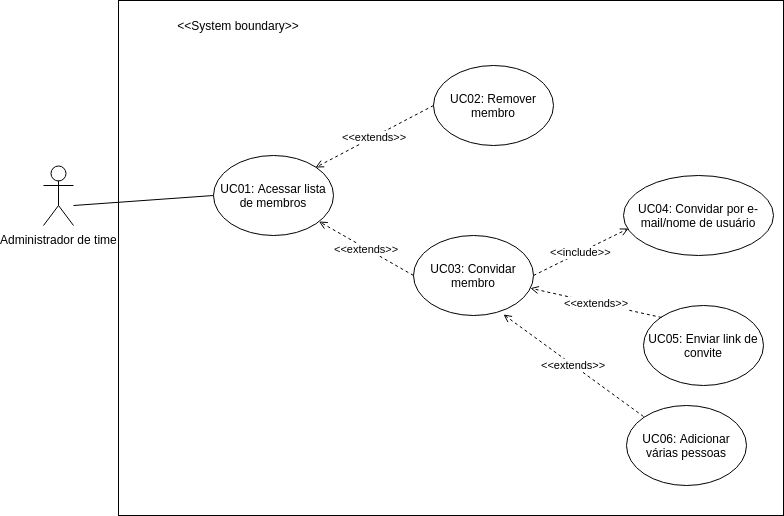
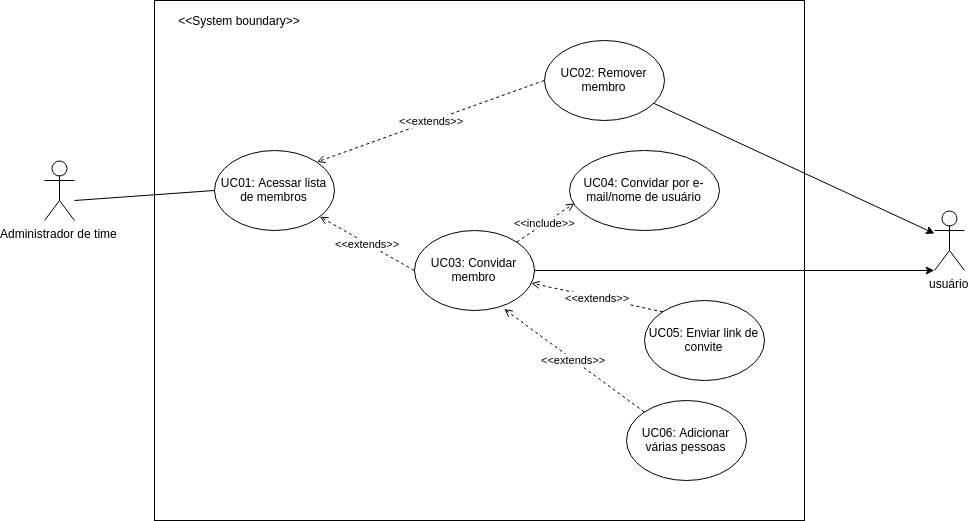
Updated user cases

diff --git a/casos de uso.md b/casos de uso.md
@@ -82,53 +82,53 @@ Para tal, o diagrama dispõe de atores que representam usuários ou sistemas que
 
 ![Caso 5](imagens/casos de uso/caso5.png)
 
-### UC01 - Criar time
+#### UC01 - Criar time
 
 |  |  |
 |  ------: | :------ |
 |  **Descrição** | Tem como objetivo a criação de um time para melhorar a organização de quadros e arquivos que devem pertencer a um grupo específico de usuários. |
 | **Atores** | Usuário |
-| **Pré Condições** | O usuário deve estar logado  no sistema. |
-| **Fluxo Principal** | **FP01 - Criar time**<br>1. Usuário acessa a opção de criar time.<br>2. Usuário digita o nome do time. [UC02][FA01][FA02]<br>3. Time criado com sucesso. Usuário é redirecionado para página do time. |
-| **Fluxos Alternativos** | **FA01 - Adicionar descrição**<br>1. Usuário adiciona descrição do time [UC03].<br>**FA02 - Acessar informações de business class**<br>1. Usuário acessa informações do business class [UC04] |
+| **Pré Condições** | O usuário deve estar logado no sistema. |
+| **Fluxo Principal** | **FP01 - Criar time**<br>1. Usuário acessa a opção de criar time.<br>2. Aciona UC02 - Adicionar nome. [FA01][FA02]<br>3. Time criado com sucesso. Usuário é redirecionado para página do time. |
+| **Fluxos Alternativos** | **FA01 - Adicionar descrição** [UC03].<br>**FA02 - Acessar informações de business class** [UC04] |
 | **Fluxos de Exceção** | Não se aplica. |
 | **Pós Condições** | Time é criado com informações dadas pelo usuário. |
 
 
-### UC02 - Adicionar nome
+#### UC02 - Adicionar nome
 
 |  |  |
 |  ------: | :------ |
 |  **Descrição** | Permite nomear times criados pelo usuário. |
 | **Atores** | Usuário |
-| **Pré Condições** | O usuário deve estar logado  no sistema.<br> Formulário de criação de time deve estar selecionado.|
-| **Fluxo Principal** | **FP01 - Adicionar nome**<br>1. Usuário digita o nome do time.<br>2. Usuário clica em no botão "criar".<br> 3. Time criado com sucesso. Usuário é redirecionado para página do time. |
+| **Pré Condições** | O usuário deve estar logado no sistema.<br> Formulário de criação de time deve estar selecionado.|
+| **Fluxo Principal** | **FP01 - Adicionar nome**<br>1. Usuário digita o nome do time.<br>2. Usuário clica em no botão "criar".<br> 3. Retorna para UC01 - criar time, passo 3. |
 | **Fluxos Alternativos** | Não se aplica. |
 | **Fluxos de Exceção** | Não se aplica. |
 | **Pós Condições** | Time é criado com informações dadas pelo usuário. |
 
 
-### UC03 - Adicionar descrição
+#### UC03 - Adicionar descrição
 
 |  |  |
 |  ------: | :------ |
 |  **Descrição** | Permite adicionar descrição a times criados pelo usuário. |
 | **Atores** | Usuário |
-| **Pré Condições** | O usuário deve estar logado  no sistema.<br> Formulário de criação de time deve estar selecionado.|
-| **Fluxo Principal** | **FP01 - Adicionar descrição**<br>1. Usuário digita o nome do time.<br>2. Usuário digita descrição do time.<br>3. Usuário clica em no botão "criar".<br> 4. Time criado com sucesso. Usuário é redirecionado para página do time. |
+| **Pré Condições** | O usuário deve estar logado no sistema.<br> Formulário de criação de time deve estar selecionado.|
+| **Fluxo Principal** | **FP01 - Adicionar descrição**<br>1. Usuário digita o nome do time.<br>2. Usuário digita descrição do time.<br>3. Usuário clica em no botão "criar".<br> 4. Retorna para UC01 - criar time, passo 3. |
 | **Fluxos Alternativos** | Não se aplica. |
 | **Fluxos de Exceção** | Não se aplica. |
 | **Pós Condições** | Time é criado com informações dadas pelo usuário. |
 
 
-### UC04 - Acessar informações de business class
+#### UC04 - Acessar informações de business class
 
 |  |  |
 |  ------: | :------ |
 |  **Descrição** | Permite ter acesso a informações relevantes sobre as vantagens da assinatura do plano de business class. |
 | **Atores** | Usuário |
-| **Pré Condições** | O usuário deve estar logado  no sistema.<br> Formulário de criação de time deve estar selecionado.|
-| **Fluxo Principal** | **FP01 - Acessar informações de business class**<br>1. Usuário clica "saiba mais" no texto referente ao business class..<br>2. Nova guia do navegador é aberta contendo informações referentes ao business class.<br> |
+| **Pré Condições** | O usuário deve estar logado no sistema.<br> Formulário de criação de time deve estar selecionado.|
+| **Fluxo Principal** | **FP01 - Acessar informações de business class**<br>1. Usuário clica "saiba mais" no texto referente ao business class.<br>2. Nova guia do navegador é aberta contendo informações referentes ao business class.<br> |
 | **Fluxos Alternativos** | Não se aplica. |
 | **Fluxos de Exceção** | Não se aplica. |
 | **Pós Condições** | Time é criado com informações dadas pelo usuário. |
@@ -139,15 +139,194 @@ Para tal, o diagrama dispõe de atores que representam usuários ou sistemas que
 
 ![Caso 6](imagens/casos de uso/caso6.png)
 
+#### UC01 - Acessar lista de membros
+
+|  |  |
+|  ------: | :------ |
+|  **Descrição** | Permite ao usuário visualizar todos os membros de um time e suas permissões. |
+| **Atores** | Administrador<br>Usuário |
+| **Pré Condições** | O administrador do time deve estar logado no sistema.<br>|
+| **Fluxo Principal** | **FP01 - Acessar lista de membros**<br>1. Usuário clica no time que deseja visualizar dentre os presentes no menu lateral.<br>2. O usuário clica em membros.<br>3. Sistema mostra lista de membros do time. [FE01][FA01][FA02] |
+| **Fluxos Alternativos** | **FA01 - Remover membro** [UC02].<br>**FA02 - Convidar membro** [UC03] |
+| **Fluxos de Exceção** | Não há membros no time. [UC03] |
+| **Pós Condições** | Lista de membros do time é acessada pelo usuário |
+
+#### UC02 - Remover membro
+
+|  |  |
+|  ------: | :------ |
+|  **Descrição** | Permite ao usuário remover membros de um time. |
+| **Atores** | Administrador<br>Usuário |
+| **Pré Condições** | O administrador do time deve estar logado no sistema.<br> O usuário deve pertencer ao time.|
+| **Fluxo Principal** | **FP01 - Remover membro**<br>1. O administrador do time clica em remover, logo a frente do nome do usuário e confirma. [FE01]<br>2. Sistema retorna mensagem de confirmação de remoção e atuliza lista. |
+| **Fluxos Alternativos** | Não se aplica |
+| **Fluxos de Exceção** | Não há membros no time. |
+| **Pós Condições** | Membro é removido do time e lista de membros é atualizada. |
+
+#### UC03 - Convidar membro
+
+|  |  |
+|  ------: | :------ |
+|  **Descrição** | Permite ao usuário convidar membros para um time. |
+| **Atores** | Administrador<br>Usuário |
+| **Pré Condições** | O administrador do time deve estar logado no sistema.<br> O usuário deve possuir conta no trello.|
+| **Fluxo Principal** | **FP01 - Convidar membro**<br>1. Sistema mostra lista de membros do time.[FE01] <br>2. O administrador do time clica em Convidar membros do time<br>3. Aciona UC04 - convidar por email/nome de usuário.[FA01][FA02]<br>4. Lista de membro é atualizada com o(s) novo(s) membro(s). |
+| **Fluxos Alternativos** | **FA01 - Enviar link de convite** [UC05].<br>**FA02 - Adicionar várias pessoas** [UC06] |
+| **Fluxos de Exceção** | Não há membros no time. Redireciona para passo 3. |
+| **Pós Condições** | Membro é adicionado ao time. |
+
+#### UC04 - Convidar por email/nome de usuário 
+
+|  |  |
+|  ------: | :------ |
+|  **Descrição** | Permite ao administrador do time convidar membros para um time através de seu email ou nome de usuário. |
+| **Atores** | Administrador<br>Usuário |
+| **Pré Condições** | O administrador do time deve estar logado no sistema.<br> O usuário deve possuir conta no trello.|
+| **Fluxo Principal** | **FP01 - convidar por email/nome de usuário**<br>1. Administrador do time digita nome de usuário ou email no formulário<br>2. Administrador clica em Adicionar ao time.<br>3. Retorna para UC03 - Convidar membro, passo 4. |
+| **Fluxos Alternativos** | Não se aplica. |
+| **Fluxos de Exceção** | Não se aplica. |
+| **Pós Condições** | Membro é adicionado ao time. |
+
+#### UC05 - Enviar link de convite
+
+|  |  |
+|  ------: | :------ |
+|  **Descrição** | Permite ao administrador do time convidar membros através da criação de link. |
+| **Atores** | Administrador<br>Usuário |
+| **Pré Condições** | O administrador do time deve estar logado no sistema.<br> O usuário deve possuir conta no trello.|
+| **Fluxo Principal** | **FP01 - convidar por email/nome de usuário**<br>1. Administrador do time clica em criar link.<br>2. Administrador do time clica em copiar.<br>3. Administrador envia link para usuários de sua escolha. |
+| **Fluxos Alternativos** | Não se aplica. |
+| **Fluxos de Exceção** | Não se aplica. |
+| **Pós Condições** |Link de acesso ao grupo é criado. |
+
+#### UC06 - Adicionar várias pessoas
+
+|  |  |
+|  ------: | :------ |
+|  **Descrição** | Permite ao administrador do time convidar mais de um membro por vez. |
+| **Atores** | Administrador<br>Usuário |
+| **Pré Condições** | O administrador do time deve estar logado no sistema.<br> O usuário deve possuir conta no trello.|
+| **Fluxo Principal** | **FP01 - convidar por email/nome de usuário**<br>1. Administrador do time clica em Adicionar várias pessoas de uma vez.<br>2. Administrador do time insere todos os emails e nomes de usuário que deseja adicionar no time.<br>3. Administrador clica em Adicionar eo time.<br>4. Retorna para UC03 - Convidar membro, passo 4 |
+| **Fluxos Alternativos** | Não se aplica. |
+| **Fluxos de Exceção** | Não se aplica. |
+| **Pós Condições** |Link de acesso ao grupo é criado. |
 
 ### Caso 7: Alterar configurações de time
 
-![Caso 7](imagens/casos de uso/caso7.png)
+![Caso 7](imagens/casos de uso/caso7 (1).png)
+
+#### UC01 - Acessar configurações de time
+
+|  |  |
+|  ------: | :------ |
+|  **Descrição** | Tem como objetivo permitir o acesso às configurações de um time para alteração ou simples visualização. |
+| **Atores** | Usuário |
+| **Pré Condições** | O usuário deve estar logado no sistema.<br>Usuário deve ser membro do time. |
+| **Fluxo Principal** | **FP01 - Acessar configurações de time**<br>1. Usuário clica no time que deseja visualizar dentre os presentes no menu lateral.<br>2. O usuário clica em configurações.<br>3. Sistema mostra configurações do time. [FA01]<br>4. Aciona UC03 - Alterar visibilidade do time.<br>5. Aciona UC04 - Vincular time do slack. |
+| **Fluxos Alternativos** | **FA01 - Editar perfil** [UC02]. |
+| **Fluxos de Exceção** | Não se aplica. |
+| **Pós Condições** | Configurações são acecssadas pelo usuário. |
+
+#### UC02 - Editar perfil
+
+|  |  |
+|  ------: | :------ |
+|  **Descrição** | Tem como objetivo editar informações básicas de um time. |
+| **Atores** | Usuário |
+| **Pré Condições** | O usuário deve estar logado no sistema.<br>Usuário deve ser administrador do time. |
+| **Fluxo Principal** | **FP01 - Editar perfil**<br>1. Usuário clica em editar perfil do time.<br>2. O usuário altera as informações de perfil.<br>3. O usuário clica em salvar<br>4. Aciona UC01 - Acessar configurações de time, passo 3. |
+| **Fluxos Alternativos** | Não se aplica. |
+| **Fluxos de Exceção** | Não se aplica. |
+| **Pós Condições** | Informações de perfil de time devem ser atualizadas. |
+
+#### UC03 - Alterar visibilidade do time
+
+|  |  |
+|  ------: | :------ |
+|  **Descrição** | Permite alterar nível de visibilidade do time (público ou particular). |
+| **Atores** | Usuário |
+| **Pré Condições** | O usuário deve estar logado no sistema.<br>Usuário deve ser administrador do time. |
+| **Fluxo Principal** | **FP01 - Alterar visibilidade do time**<br>1. Usuário clica em alterar, que se encontra a frente da visibilidade do time.<br>2. O usuário seleciona a visibilidade que deseja para o time.<br>3. O usuário clica em salvar<br>4. Aciona UC01 - Acessar configurações de time, passo 3. |
+| **Fluxos Alternativos** | Não se aplica. |
+| **Fluxos de Exceção** | Não se aplica. |
+| **Pós Condições** | Visibilidade do time deve ser atualizada. |
+
+#### UC04 - Vincular time do slack
+
+|  |  |
+|  ------: | :------ |
+|  **Descrição** | Permite vincular time do trello com time do slack, facilitando a comunicação com o grupo. |
+| **Atores** | Usuário |
+| **Pré Condições** | O usuário deve estar logado no sistema.<br>Usuário deve ser administrador do time. |
+| **Fluxo Principal** | **FP01 - Vincular time do slack**<br>1. Usuário clica em add to Slack. [FA01]<br>2. O usuário informa o nome do workspace do slack.<br>3. Sistema retorna página de termos<br>4. Usuário autoriza vinculação.<br>5. Aciona UC01 - Acessar configurações de time, passo 3. |
+| **Fluxos Alternativos** |  **FA01 - Acessar informações de vinculação** [UC05] |
+| **Fluxos de Exceção** | Não se aplica. |
+| **Pós Condições** | Time deve ser vinculado ao slack. |
+
+#### UC05 - Acessar informações de vinculação
+
+|  |  |
+|  ------: | :------ |
+|  **Descrição** | Permite ao usuário entender quais as vantagens de se vincular o time do trello com o time do slack. |
+| **Atores** | Usuário |
+| **Pré Condições** | O usuário deve estar logado no sistema.<br>Usuário deve ser membro do time. |
+| **Fluxo Principal** | **FP01 - Acessar informações de vinculação**<br>1. Usuário clica em saiba mais na sessão vinculação ao slack.<br>2. Sistema redireciona para página de informações de vinculação ao slack. |
+| **Fluxos Alternativos** | Não se aplica. |
+| **Fluxos de Exceção** | Não se aplica. |
+| **Pós Condições** | Usuário tem acesso a informações relevantes sobre vinculação com trello |
 
 
 ### Caso 8:  Alterar configurações de board
 
 ![Caso 8](imagens/casos de uso/caso8.png)
+
+#### UC01 - Acessar board
+
+|  |  |
+|  ------: | :------ |
+|  **Descrição** | Tem como objetivo permitir o acesso boards dos quais participa. |
+| **Atores** | Usuário |
+| **Pré Condições** | O usuário deve estar logado no sistema.<br> |
+| **Fluxo Principal** | **FP01 - Acessar configurações de time**<br>1. Usuário clica em boards no menu lateral ou no header.<br>2. O sistema retorna lista de boards que o usuário participa.<br>3. Usuário seleciona board. [FE01]<br>4. sistema redireciona para página do board selecionado.<br>5. Aciona UC05 - Visualizar atividade. [FA01][FA02][FA03] |
+| **Fluxos Alternativos** | **FA01 - Acessar mais opções do menu** [UC02].<br>**FA02 - Alterar tela de fundo** [UC03].<br>**FA01 - Adicionar/remover power-up** [UC04]. |
+| **Fluxos de Exceção** | Usuário não participa de nenhum board. |
+| **Pós Condições** | Usuário tem acesso aos dados do board. |
+
+#### UC02 - Acessar mais opções do menu
+
+|  |  |
+|  ------: | :------ |
+|  **Descrição** | Tem como objetivo permitir o acesso a configurações do board selecionado. |
+| **Atores** | Usuário |
+| **Pré Condições** | O usuário deve estar logado no sistema. |
+| **Fluxo Principal** | **FP01 - Acessar mais opções do menu**<br>1. Usuário clica em mostrar menu caso menu não esteja aberto.<br>2. Usuário clica em mais.<br>3. O sistema retorna mais opções para o menu |
+| **Fluxos Alternativos** | Não se aplica. |
+| **Fluxos de Exceção** | Usuário não participa de nenhum board. |
+| **Pós Condições** | Usuário tem acesso aos dados do board. |
+
+#### UC03 - Alterar tela de fundo
+
+|  |  |
+|  ------: | :------ |
+|  **Descrição** | Tem como objetivo permitir a estilização do board. |
+| **Atores** | Usuário |
+| **Pré Condições** | O usuário deve estar logado no sistema.<br>O usuário deve ser membro do board. |
+| **Fluxo Principal** | **FP01 - Alterar tela de fundo**<br>1. Usuário clica em mostrar menu caso menu não esteja aberto.<br>2. Usuário clica em Alterar tela de fundo.<br>3. O sistema retorna opções de tela de fundo.<br>4. Usuário seleciona entre as cores e fotos disponíveis. |
+| **Fluxos Alternativos** | Não se aplica. |
+| **Fluxos de Exceção** | Não se aplica. |
+| **Pós Condições** | Tela de fundo do board é alterada. |
+
+#### UC04 - Adicionar/remover power-ups
+
+|  |  |
+|  ------: | :------ |
+|  **Descrição** | Tem como objetivo editar os power-ups de um board. |
+| **Atores** | Usuário |
+| **Pré Condições** | O usuário deve estar logado no sistema.<br>O usuário deve ser membro do board. |
+| **Fluxo Principal** | **FP01 - Adicionar/remover power-ups**<br>1. Usuário clica em mostrar menu caso menu não esteja aberto.<br>2. Usuário clica em Power-ups.<br>3. O sistema retorna opções de power-ups que podem ser adicionados ao board.<br>4. Usuário seleciona entre os power-ups disponíveis. |
+| **Fluxos Alternativos** | Não se aplica. |
+| **Fluxos de Exceção** | Não se aplica. |
+| **Pós Condições** | Power-ups do board são atualizados. |
 
 
 ### Caso 10: Board
